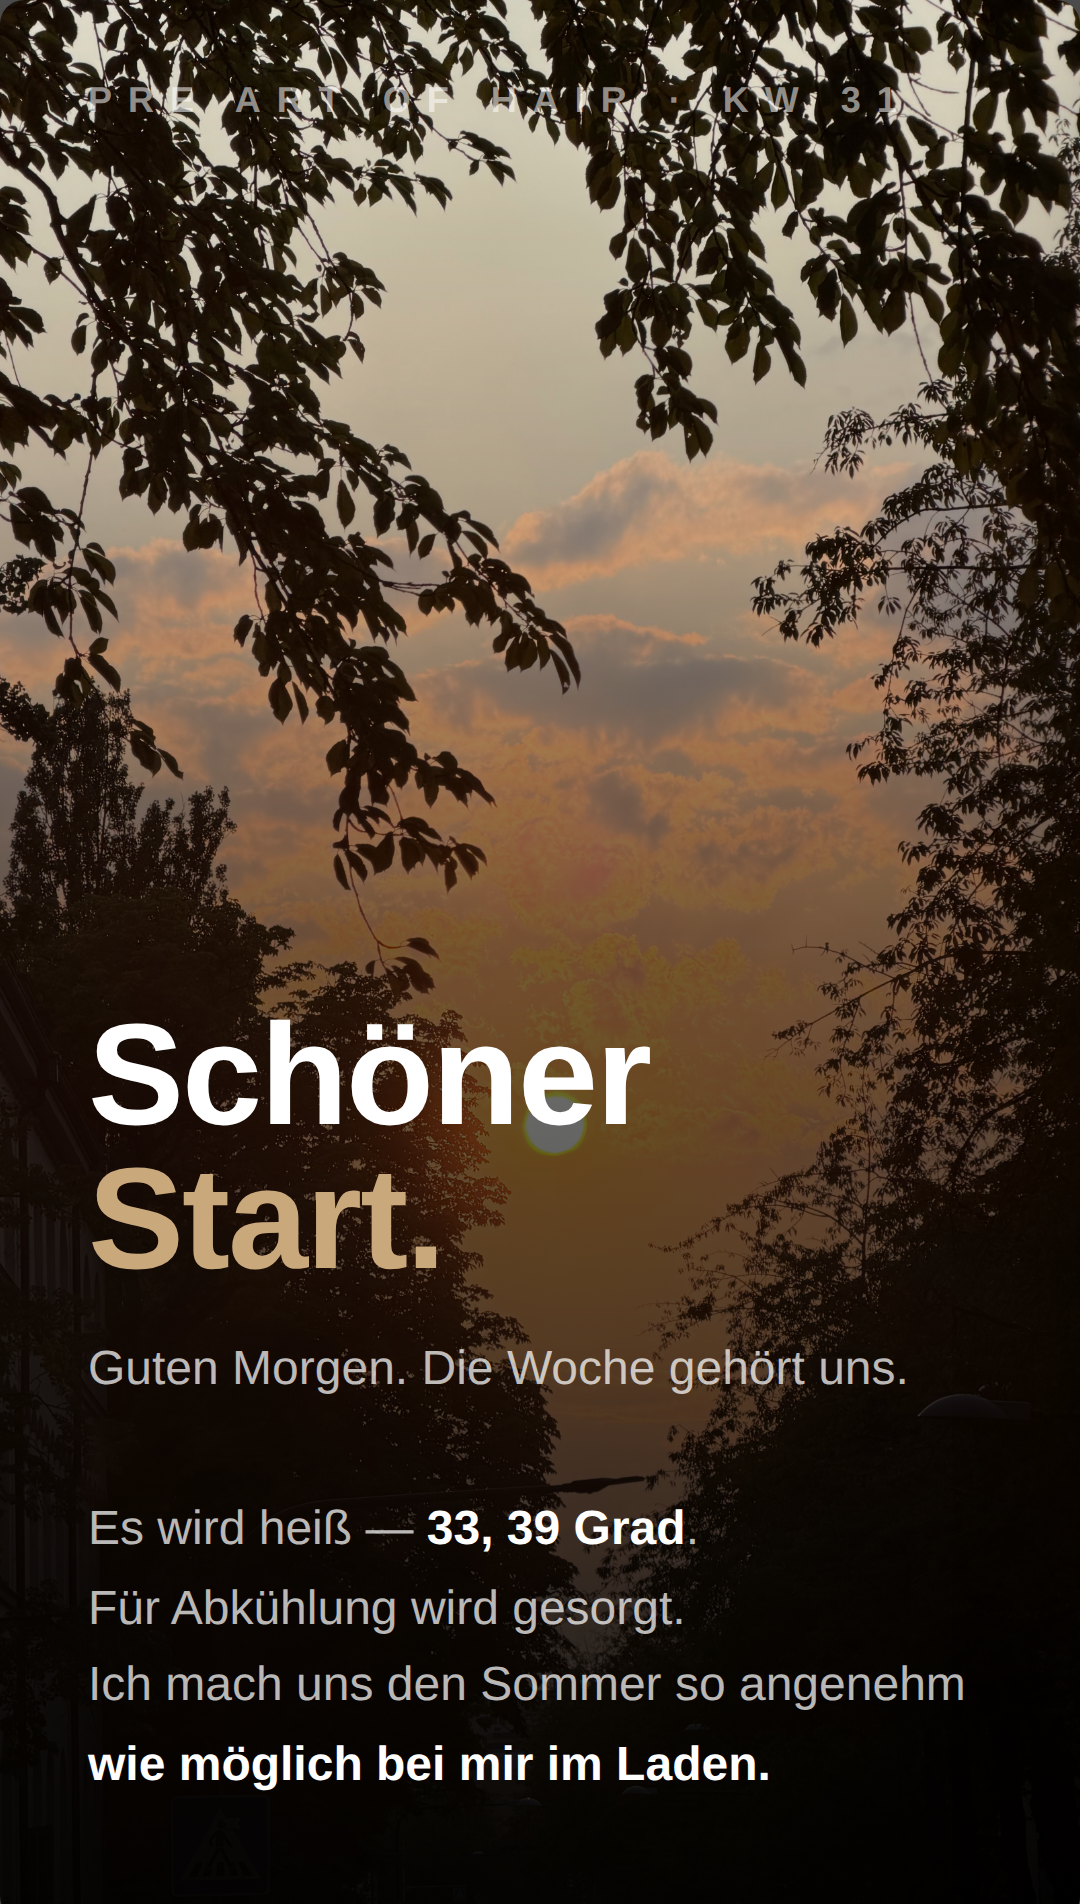
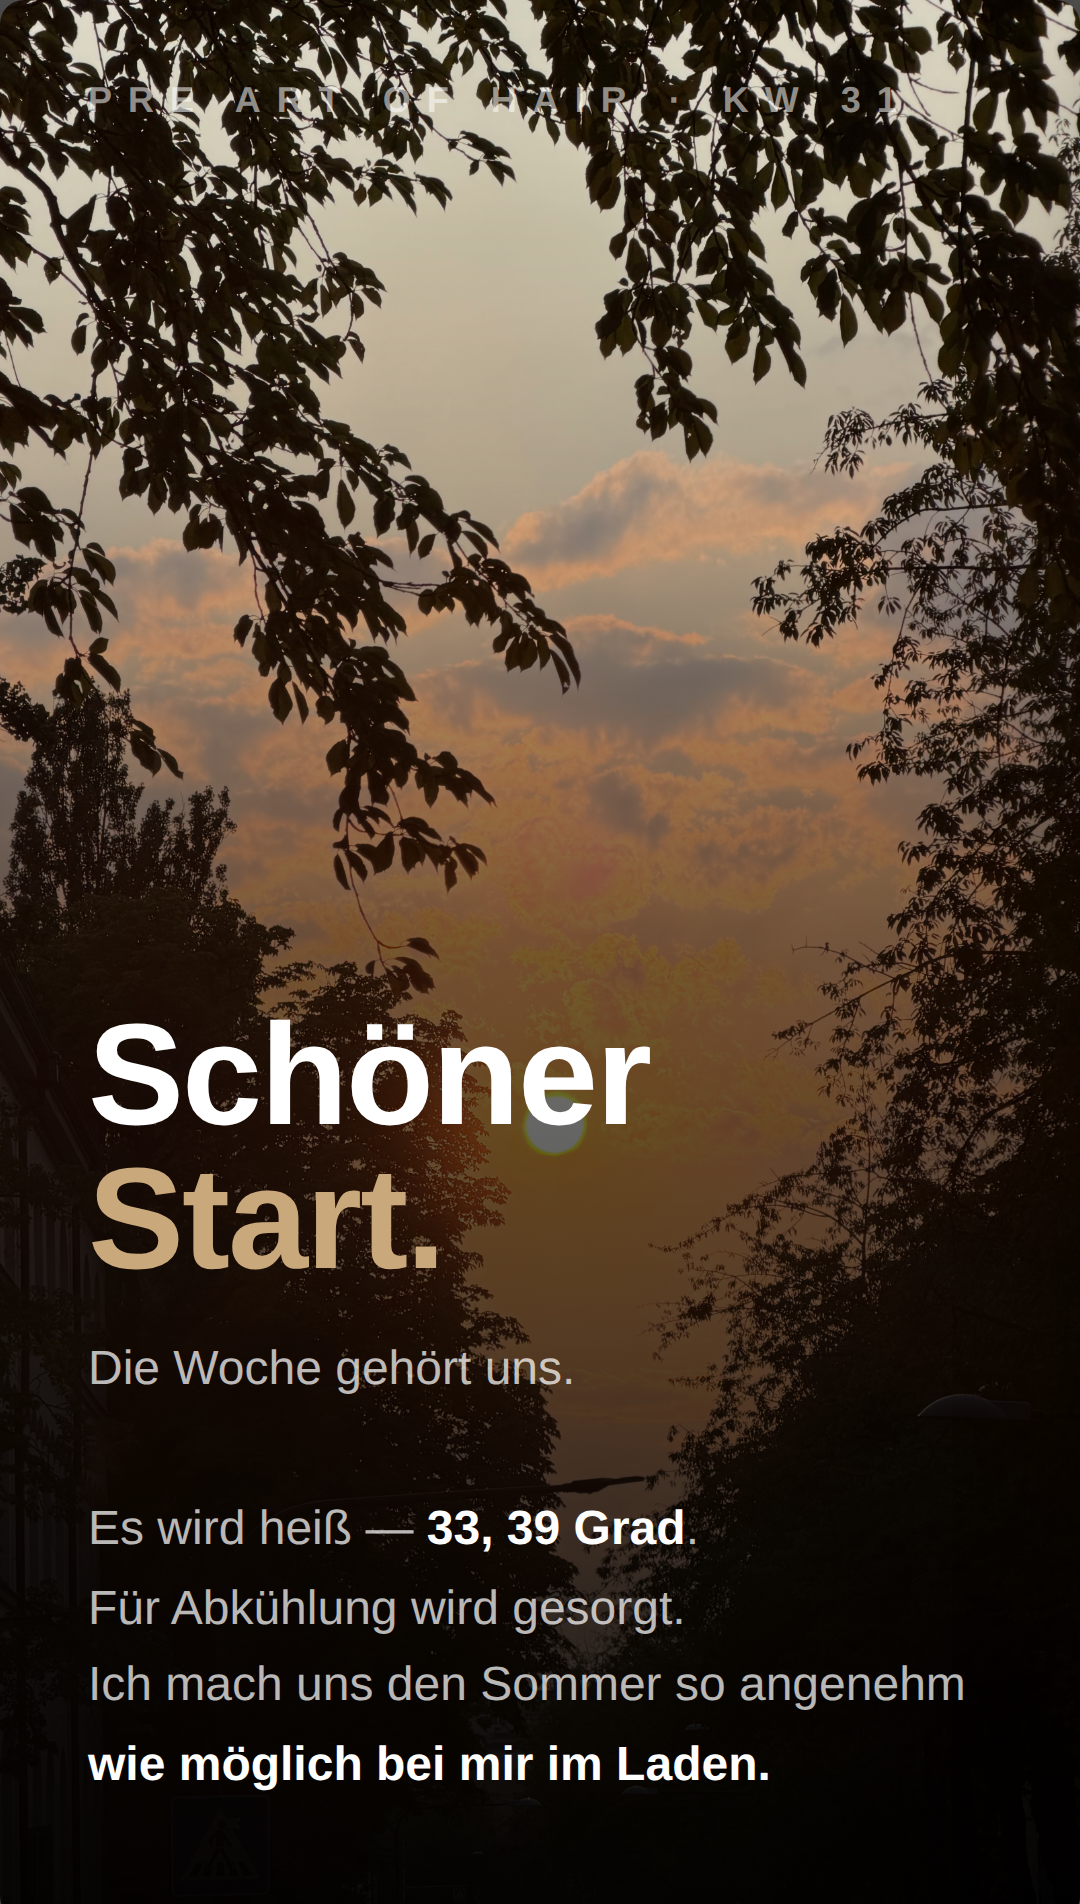
Trim KW31 stories: remove alone-cinema line and Guten Morgen
Claude-Session: https://claude.ai/code/session_01BaC8m9wAmbtKccXQSCmnYc

Changed region(s): [[0.0917, 0.7127, 0.825, 0.7437]]

diff --git a/stories-kw31.html b/stories-kw31.html
@@ -141,8 +141,7 @@
         Amazing. <b>Bin voll aufgetankt.</b> Für euch.<br><br>
         Und noch was: <b>Odyssee</b> im Kino —<br>
         ich kann den Film so krass empfehlen.<br>
-        Ich war alleine. Und weißt du was?<br>
-        <b>Manchmal ist alleine einfach besser.</b>
+        <b>Schaut ihn euch an.</b>
       </div>
     </div>
   </div>
@@ -154,7 +153,7 @@
     <div class="content">
       <div class="headline">Schöner<br><span class="c">Start.</span></div>
       <div class="body">
-        Guten Morgen. Die Woche gehört uns.<br><br>
+        Die Woche gehört uns.<br><br>
         Es wird heiß — <b>33, 39 Grad</b>.<br>
         Für Abkühlung wird gesorgt.<br>
         Ich mach uns den Sommer so angenehm<br>
